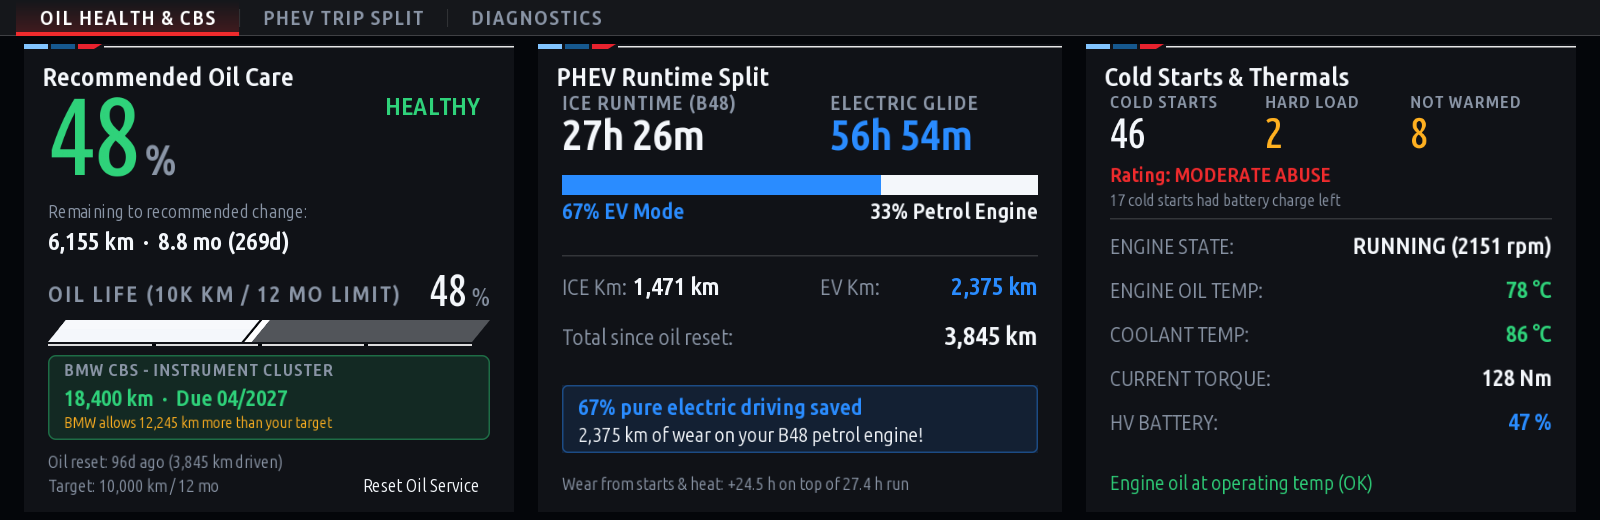
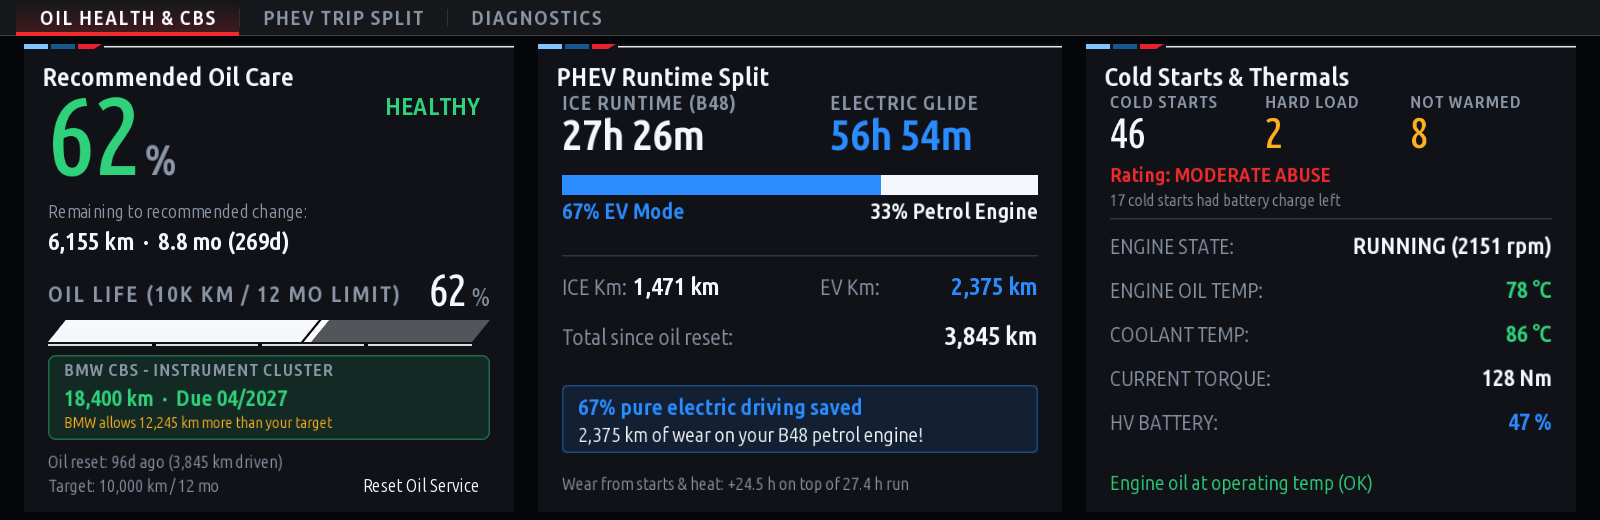
fix(engine_care): count wear on the engine hours only, not on top of the km
Oil life was max(km, months, hours) + wear hours / maxHours, so a hybrid that
runs its engine little paid twice for the same driving: 6,100 km in town with
96 cold starts and 23 short runs came out at 7 % (SERVICE DUE). The wear now
adds to the engine hours, and the hours ratio competes with km and months:
the same sample is at 39 %, while an engine run mostly cold still runs out.

Changed region(s): [[0.0312, 0.1846, 0.0938, 0.3385], [0.25, 0.5231, 0.3125, 0.5846], [0.1562, 0.6154, 0.2188, 0.6769]]

diff --git a/apps/engine_care/model.js b/apps/engine_care/model.js
@@ -303,8 +303,11 @@ function drivenKm(st) {
 }
 
 /**
- * Oil life: whichever of km (all km since the change), months and engine hours comes first, plus
- * wear counted in engine hours (cold starts, cold hard starts, short cycles, hot oil).
+ * Oil life: whichever of km (all km since the change), months and engine hours comes first. The wear
+ * (cold starts, cold hard starts, short cycles, hot oil) is counted in engine hours on top of the hours
+ * run, so it only brings the change forward once those hours overtake the km and the months: the
+ * targets are already shorter than BMW's, and a hybrid that runs its engine little shouldn't pay for
+ * the same driving twice (km plus wear).
  */
 function oilHealth(st, c, now) {
     const s = st.service;
@@ -317,11 +320,10 @@ function oilHealth(st, c, now) {
 
     const kmRatio = driven.km / targetKm;
     const timeRatio = monthsSince / targetMonths;
-    const hoursRatio = iceH / maxH;
     const penaltyH = s.coldStarts * COLD_START_H + s.coldHardStarts * HARD_START_H
         + s.shortCycles * c.shortCycleH + (s.thermalStressSec / 3600) * HOT_EXTRA;
-    const baseWear = Math.max(kmRatio, timeRatio, hoursRatio);
-    const totalWear = Math.min(1, baseWear + penaltyH / maxH);
+    const hoursRatio = (iceH + penaltyH) / maxH;
+    const totalWear = Math.min(1, Math.max(kmRatio, timeRatio, hoursRatio));
     const lifePct = Math.max(0, Math.min(100, Math.round((1 - totalWear) * 100)));
 
     const remKm = Math.max(0, Math.round(targetKm - driven.km));

diff --git a/tests/engine_care.test.js b/tests/engine_care.test.js
@@ -201,6 +201,20 @@ const tests = {
         h = M.oilHealth(st, CFG, T0 + 400 * 86400000);
         assert.strictEqual(h.lifePct, 0); assert.strictEqual(h.status, 'SERVICE DUE');
     },
+    'oil health: wear counts on the hours only, not on top of the km'() {
+        // a hybrid in town: 6,100 km but 45 h of engine, 96 cold starts, 4 cold hard ones, 23 short runs
+        const st = M.freshState(T0);
+        Object.assign(st.service, { odoLast: { src: 'OBD A6', km: 1 }, odoKm: 6100, iceSec: 45 * 3600,
+            coldStarts: 96, coldHardStarts: 4, shortCycles: 23 });
+        let h = M.oilHealth(st, CFG, T0);
+        assert.strictEqual(h.penaltyH, 57);
+        assert.strictEqual(h.lifePct, 39, '61 % from the km; (45 + 57) h = 57 % stays under it');
+        assert.strictEqual(h.limitingFactor, 'km'); assert.strictEqual(h.status, 'HEALTHY');
+        st.service.shortCycles = 53;                             // 30 h more: (45 + 87) h = 73 %
+        h = M.oilHealth(st, CFG, T0);
+        assert.strictEqual(h.lifePct, 27); assert.strictEqual(h.limitingFactor, 'hours');
+        assert.strictEqual(h.remHours, 48);
+    },
     'CBS distance texts'() {
         const cases = [['12.300 km', 12300], ['12 300 km', 12300], ['-1.200 km', -1200], ['−1 200 km', -1200],
             ['7,600 mi', 12231], ['10 000 km', 10000], ['', null], [undefined, null], ['--- km', null]];

diff --git a/README.md b/README.md
@@ -18,7 +18,7 @@ BMW PHEV powertrains frequently start the combustion engine (ICE) directly while
 * **BMW CBS Side by Side**: Shows the instrument cluster's own oil service countdown (distance, date, overdue) next to your own target - for display only, as BMW's countdown is condition based and not a distance counter.
 * **Engine Runs That Never Warmed the Oil**: Counts cold starts that stop again before the oil reaches its warm temperature (default 90°C) - the short PHEV runs that leave fuel and water in the oil.
 * **Battery Charge at Engine Starts**: Splits engine starts into "the battery was at its reserve" and "it had charge left" (high-voltage battery charge read over UDS).
-* **True Oil Life Monitor**: Whichever comes first of km, months and engine hours, plus wear counted in engine hours for cold starts, cold hard starts, runs that never warmed the oil and hot oil.
+* **True Oil Life Monitor**: Whichever comes first of km, months and engine hours, where the engine hours include wear for cold starts, cold hard starts, runs that never warmed the oil and hot oil (so a hybrid that rarely runs its engine isn't charged twice for the same km).
 * **Configurable Thresholds**: Customizable service limits (120h–250h or 6,000–15,000 km), cold / warm temperatures, load threshold, battery reserve.
 * **Diagnostics Page** (setting): every signal with its age, the engine unit's raw UDS answers, the cluster's raw CBS data, whether the app counts with its screen closed and whether the torque signal includes the e-motor.
 * **Drive Recording** (setting): one line a second of what the app got from the car, to replay on a PC (see Development).
